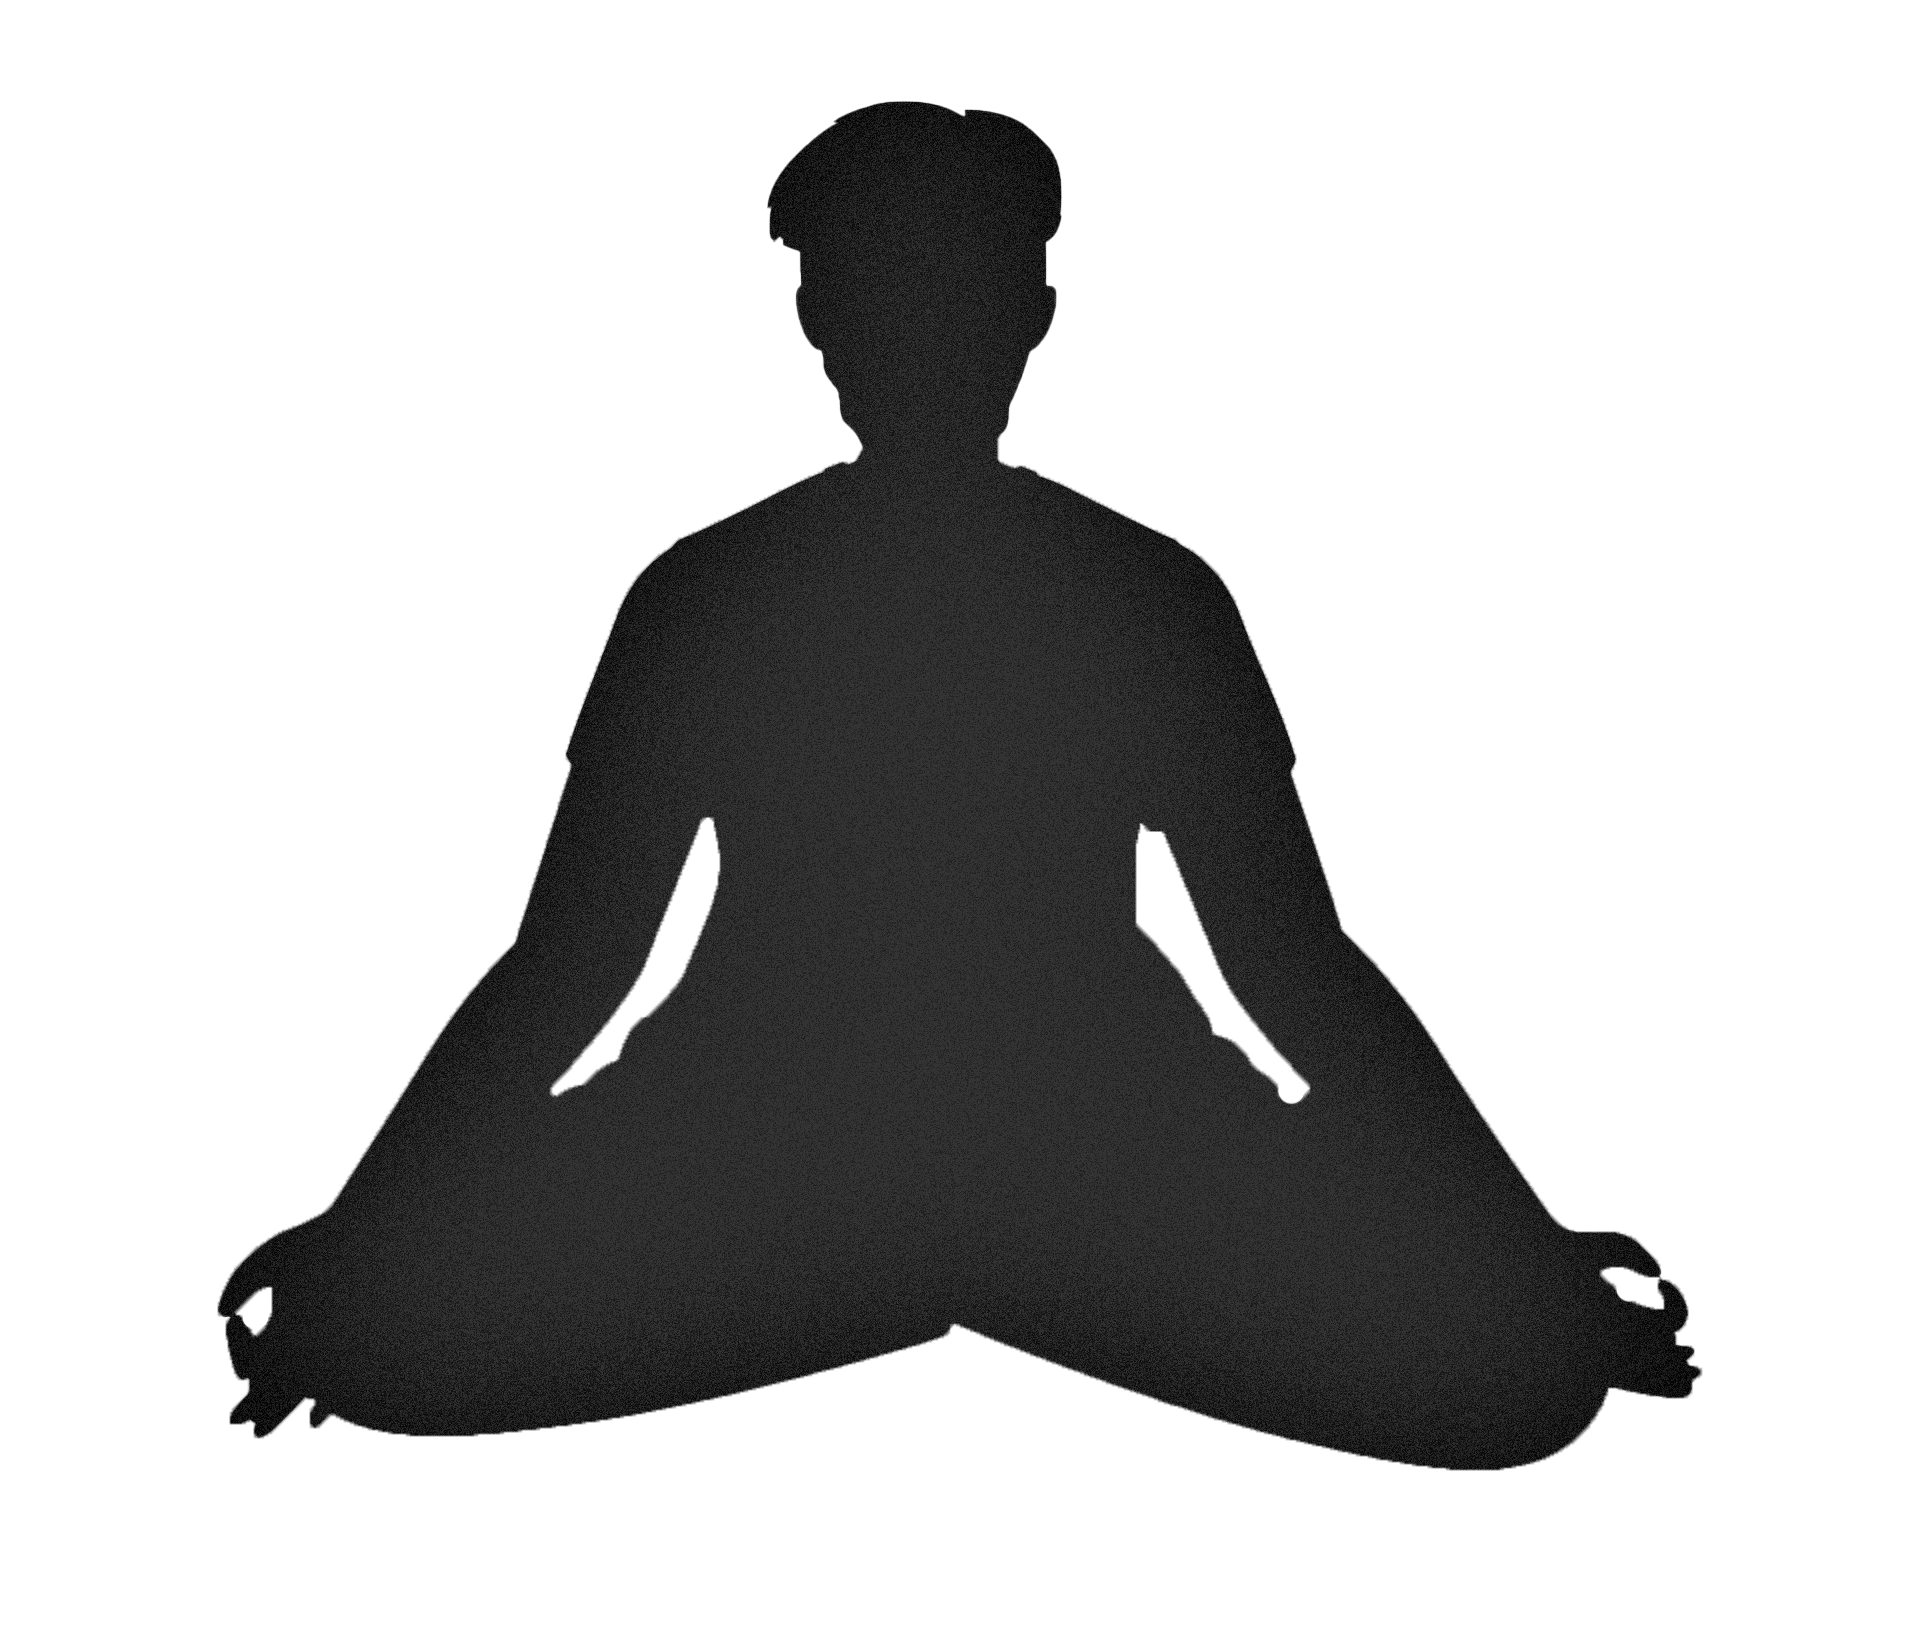
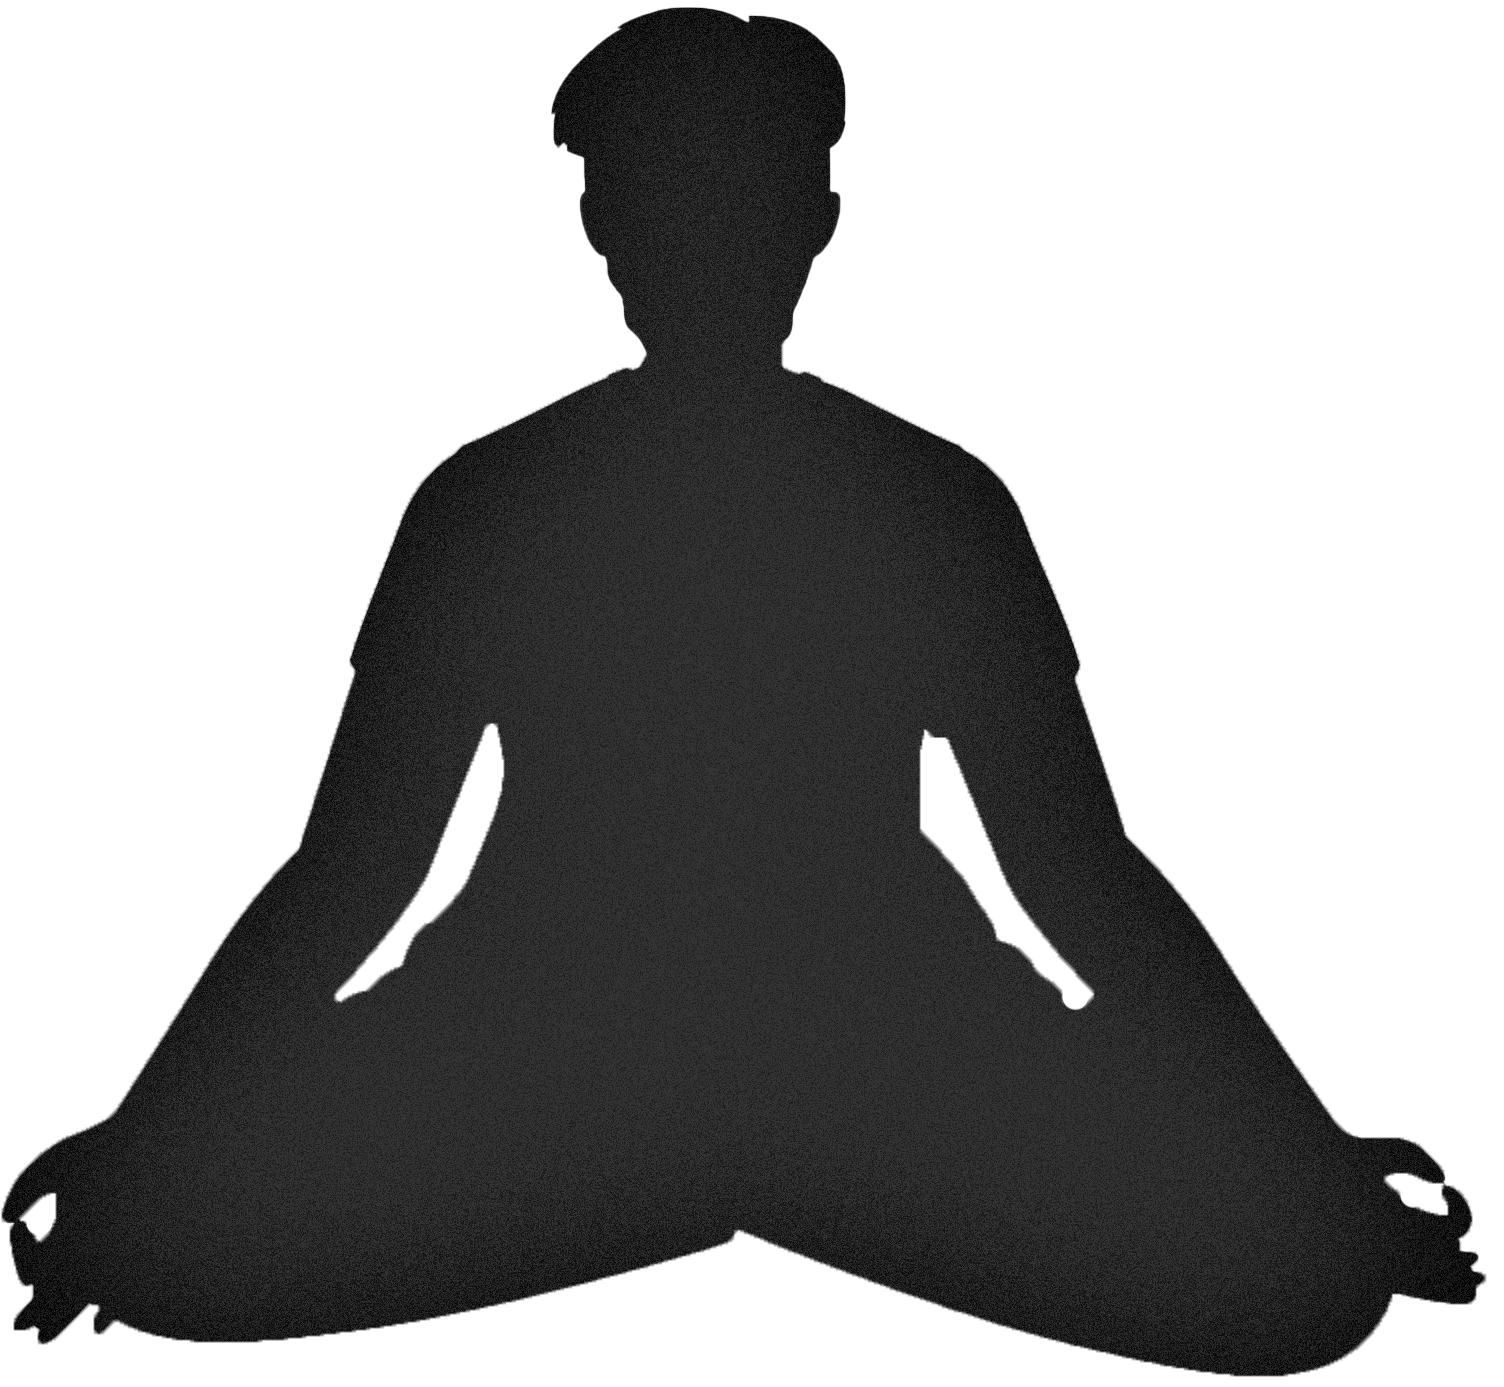
adding chakaras

Changed region(s): [[0.0, 0.0, 1.0, 0.9921], [0.5938, 0.496, 0.75, 0.7441]]

diff --git a/src/components/workshopSubPages/aura/auraStyle.jsx b/src/components/workshopSubPages/aura/auraStyle.jsx
@@ -1,8 +1,136 @@
 import styled from "styled-components";
 
 export const AuraContainer = styled.div`
-  div {
-    font-size: 2em;
+section{
+  position: absolute;
+  /* border: 1px solid black; */
+  width: 60%;
+  height:70%;
+  margin-top: -4%;
+  margin-left: 20%;
+}
+div{
+  position: absolute;
+  width: 150px;
+  height: 150px;
+  border-radius: 50%;
+
+}
+
+.top-left{
+  background-color: #d23d3d;
+  left: 20%;
+  animation: top-chakara-anim 5s ease-in-out 0s infinite;
+
+}
+.top-right{
+  background-color: #52e039;
+  right: 20%;
+  animation: top-chakara-anim 5s ease-in-out 0s infinite;
+  
+}
+@keyframes top-chakara-anim {
+  0%{
+    margin-top: 0%;
+  }
+  50%{
+    margin-top: 2%;
+  }
+  100%{
+    margin-top: 0%;
+  }
+}
+.bottom-left{
+  background-color: #1768da;
+  margin-top: 20%;
+  left: 10%;
+  animation: bottom-chakara-anim 5s ease-in-out 0s infinite;
+
+}
+.bottom-right{
+  background-color: #da0623;
+  margin-top: 20%;
+  right: 10%;
+  animation: bottom-chakara-anim 5s ease-in-out 0s infinite;
+
+
+}
+@keyframes bottom-chakara-anim {
+  0%{
+    margin-top: 20%;
+  }
+  50%{
+    margin-top: 22%;
+  }
+  100%{
+    margin-top: 20%;
+  }
+}
+  .yoga-man{
+    position: absolute;
+    width: 40%;
+    margin-left: 32%;
+    margin-top: -2%;
+    animation: yoga-anim 5s ease-in-out 0s infinite;
+    filter: drop-shadow(0px 0px 5px #ffffff70);
+  }
+  @keyframes yoga-anim {
+    0%{
+      margin-top: -2%;
+    }
+    50%{
+      margin-top: -1%;
+    }
+    100%{
+      margin-top: -2%;
+    }
     
+  }
+
+  @media (max-width: 1280px) {
+      .yoga-man{
+        width: 50%;
+        margin-left: 27%;
+      }
+  }
+
+@media (max-width: 820px) {
+      .yoga-man{
+        width: 90%;
+        margin-left: 6%;
+        margin-top: 20%;
+      }
+        @keyframes yoga-anim {
+          0%{
+            margin-top: 20%;
+          }
+          50%{
+            margin-top: 23%;
+          }
+          100%{
+            margin-top: 20%;
+          }
+          
+        }
+  }
+
+  @media (max-width: 520px) {
+      .yoga-man{
+        width: 98%;
+        margin-left: 2%;
+        margin-top: 20%;
+      }
+        @keyframes yoga-anim {
+          0%{
+            margin-top: 20%;
+          }
+          50%{
+            margin-top: 23%;
+          }
+          100%{
+            margin-top: 20%;
+          }
+          
+        }
   }
 `;

diff --git a/src/components/workshopSubPages/aura/AuraBuilder.jsx b/src/components/workshopSubPages/aura/AuraBuilder.jsx
@@ -1,9 +1,20 @@
 import React from "react";
+import yogaImage from '../../../images/auraBuilder/yoga.png'
+import { AuraContainer } from "./auraStyle";
 
 const AuraBuilder = () => {
   return (
-      <div className="auraMainDiv">Hello aura</div>
-  );
+    <AuraContainer>
+        <section>
+          <div className="top-left"></div>
+          <div className="top-right"></div>
+          <div className="bottom-left"></div>
+          <div className="bottom-right"></div>
+        </section>
+          <img src={yogaImage} alt="person-image" className="yoga-man"/>
+        
+    </AuraContainer> 
+ );
 };
 
 
